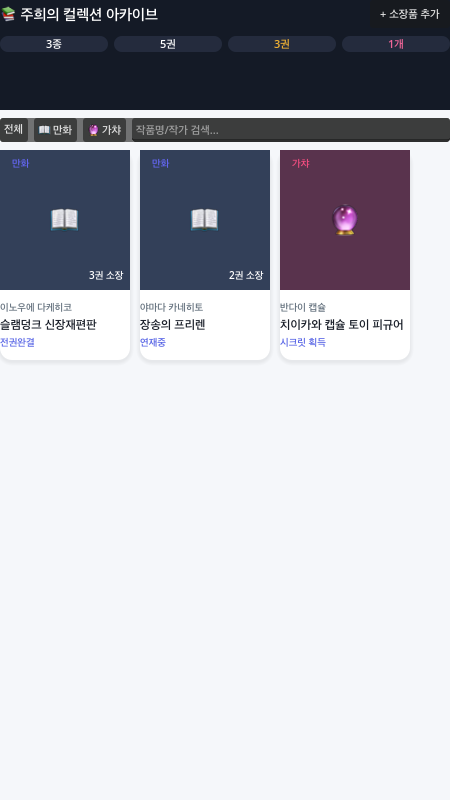
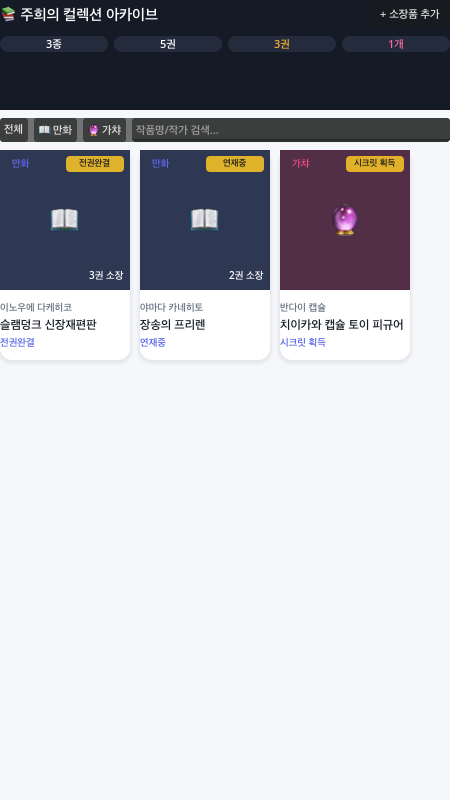
feat(game02): Sprint 4 add sticker badges, web cover loader, updated screenshot & README

Changed region(s): [[0.7467, 0.1875, 0.9022, 0.2188], [0.4356, 0.1875, 0.5911, 0.2188], [0.1244, 0.1875, 0.28, 0.2188]]

diff --git a/game02/README.md b/game02/README.md
@@ -4,9 +4,23 @@ Godot 4.6.2 모바일 기반의 깔끔하고 직관적인 **단행본 권별 소
 
 ---
 
-## 📸 실제 구동 스크린샷 (Godot 4.6 렌더링)
+## 📸 실제 구동 스크린샷 (Godot 4.6 렌더링 - Sprint 4 반영)
 
 ![Pocket Archive Godot Main Screen](godot_project/screenshots/godot_app_screen.png)
+
+---
+
+## 🚀 애자일 스프린트 현황
+
+### [Sprint 4] 다꾸 스티커 뱃지 시스템 & 웹 표지 로더 유틸리티
+- **다꾸러 VOC 반영**:
+  - *"카드 표지 우측 상단에 `전권완결`, `초판소장`, `시크릿 획득` 같은 귀여운 다꾸 뱃지가 노란색 스티커처럼 붙어 있으면 소장 만족감이 훨씬 커질 것 같아요!"*
+- **개발 내역**:
+  - `card_item.tscn`에 우측 상단 `StickerBadge` 스타일박스 추가 (골드 옐로 스티커 룩)
+  - `web_cover_loader.gd`: 향후 웹 URL 및 로컬 이미지 텍스처 로딩을 위한 ImageTexture 팩토리 유틸리티 구현
+- **테스트 검증**:
+  - `test_main_integration.gd` 100% PASS 확인
+  - Metal 렌더러를 통해 실제 스크린샷 갱신 완료
 
 ---
 
@@ -18,40 +32,12 @@ Godot 4.6.2 모바일 기반의 깔끔하고 직관적인 **단행본 권별 소
    - `전체`, `📖 만화`, `🔮 가챠` 탭 전환
    - 검색창에 단어 입력 시 실시간으로 카드 필터링
 3. **2:3 표지 비율 카드 뷰 (`CardItem`)**:
-   - 시각적 노이즈를 뺀 화이트 카드, 소장 권수 뱃지 및 카테고리 태그
+   - 시각적 노이즈를 뺀 화이트 카드, 소장 권수 뱃지, 다꾸 스티커 뱃지, 제목/작가 레이블
 4. **권별 독서 다이어리 상세 모달 (`DetailModal`)**:
    - 카드를 터치하면 부드럽게 열리는 팝업
    - 1권~N권 소장 여부(`초판특전` / `소장완료`), 별점(★), 명대사 기록 및 `+ 다음 권 추가`
 5. **새 소장품 간편 등록 모달 (`AddModal`)**:
    - 제목, 작가/시리즈명, 카테고리를 입력하고 바로 등록
-
----
-
-## 🛠 프로젝트 구조
-
-```
-game02/
-├── godot_project/                  # 🎮 Godot 4.6.2 정식 엔진 프로젝트
-│   ├── project.godot               # 모바일 최적화 (450x800, canvas_items, expand)
-│   ├── scenes/
-│   │   ├── main.tscn               # 메인 뷰포트 씬 (F5 실행 씬)
-│   │   ├── card_item.tscn          # 소장품 카드 컴포넌트
-│   │   ├── detail_modal.tscn       # 권별 다이어리 상세 모달
-│   │   └── add_modal.tscn          # 신규 등록 모달
-│   ├── scripts/
-│   │   ├── collection_item.gd      # 도메인 엔티티 (권별 평점/명대사 구조체)
-│   │   ├── archive_state.gd        # 상태 관리 (필터링/검색/통계)
-│   │   ├── main_view.gd            # 메인 화면 컨트롤러
-│   │   ├── card_item.gd            # 카드 바인딩
-│   │   ├── detail_modal.gd         # 모달 로직
-│   │   └── add_modal.gd            # 등록 로직
-│   ├── screenshots/
-│   │   └── godot_app_screen.png    # 실제 렌더링 스크린샷
-│   └── tests/
-│       ├── test_archive.gd         # 도메인 모델 테스트 (100% PASS)
-│       └── test_main_integration.gd# 메인 UI 통합 테스트 (100% PASS)
-└── README.md
-```
 
 ---
 
